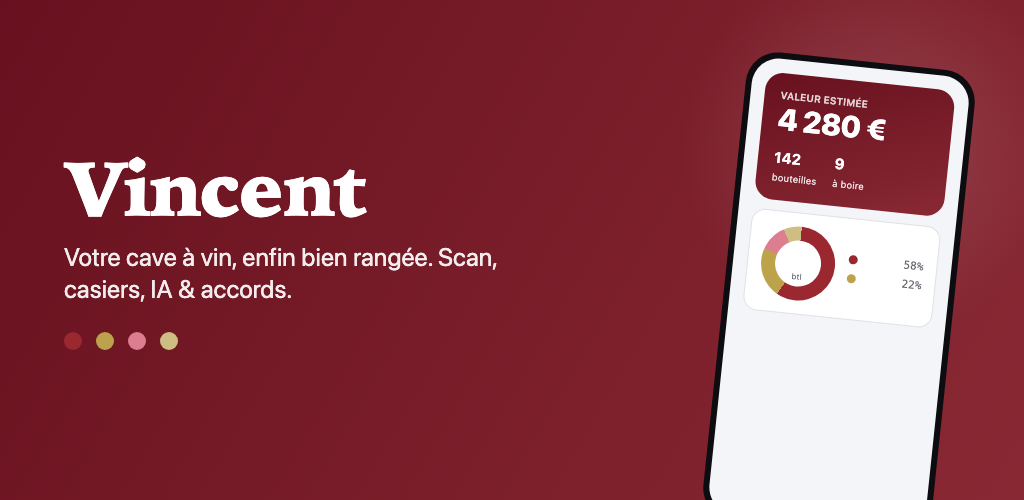
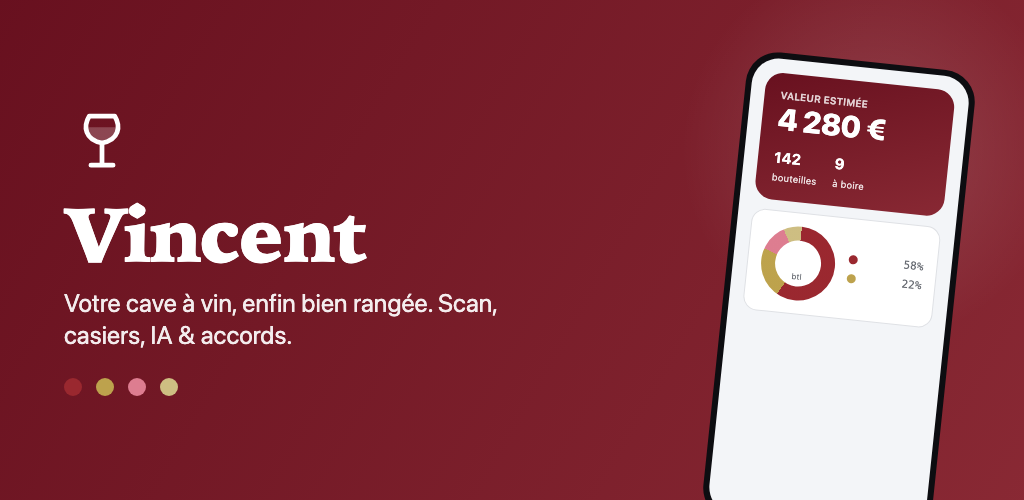
Feature graphic: add balloon-glass mark, regenerate 1024x500

Changed region(s): [[0.0625, 0.21, 0.5, 0.72], [0.0625, 0.75, 0.1875, 0.81]]

diff --git a/playstore/feature.html b/playstore/feature.html
@@ -2,6 +2,11 @@
 <div class="feat">
   <div class="glow"></div>
   <div class="txt">
+    <svg width="76" height="76" viewBox="0 0 24 24" fill="none" stroke-linecap="round" stroke-linejoin="round" style="display:block;margin-bottom:16px">
+      <path d="M7.6 7H16.4C16.7 9 15.8 11.2 12 12C8.2 11.2 7.3 9 7.6 7Z" fill="rgba(255,255,255,.22)"/>
+      <path d="M8 3.5H16C18 6.8 17.4 11 12 12C6.6 11 6 6.8 8 3.5Z" stroke="#fff" stroke-width="1.5"/>
+      <path d="M12 12v7M8.5 19h7" stroke="#fff" stroke-width="1.5"/>
+    </svg>
     <div class="wm">Vincent</div>
     <div class="tg">Votre cave à vin, enfin bien rangée. Scan, casiers, IA &amp; accords.</div>
     <div class="dots"><i style="background:var(--red)"></i><i style="background:var(--white-wine)"></i><i style="background:var(--rose)"></i><i style="background:var(--bubbly)"></i></div>